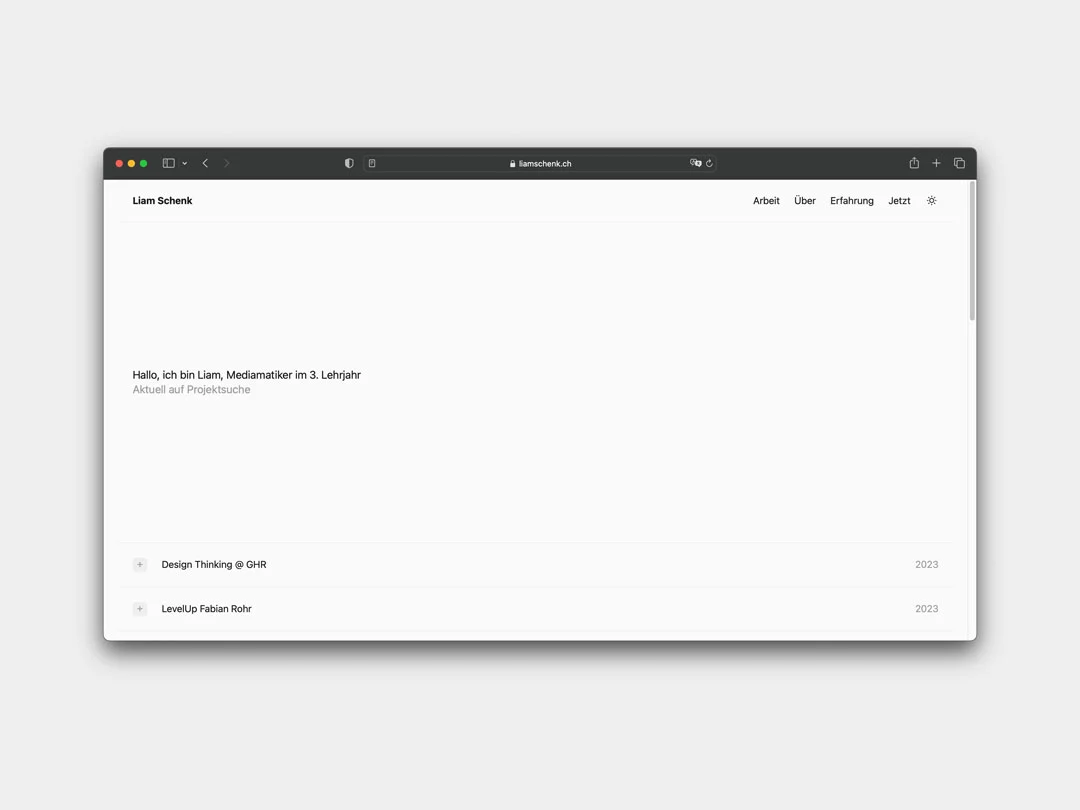
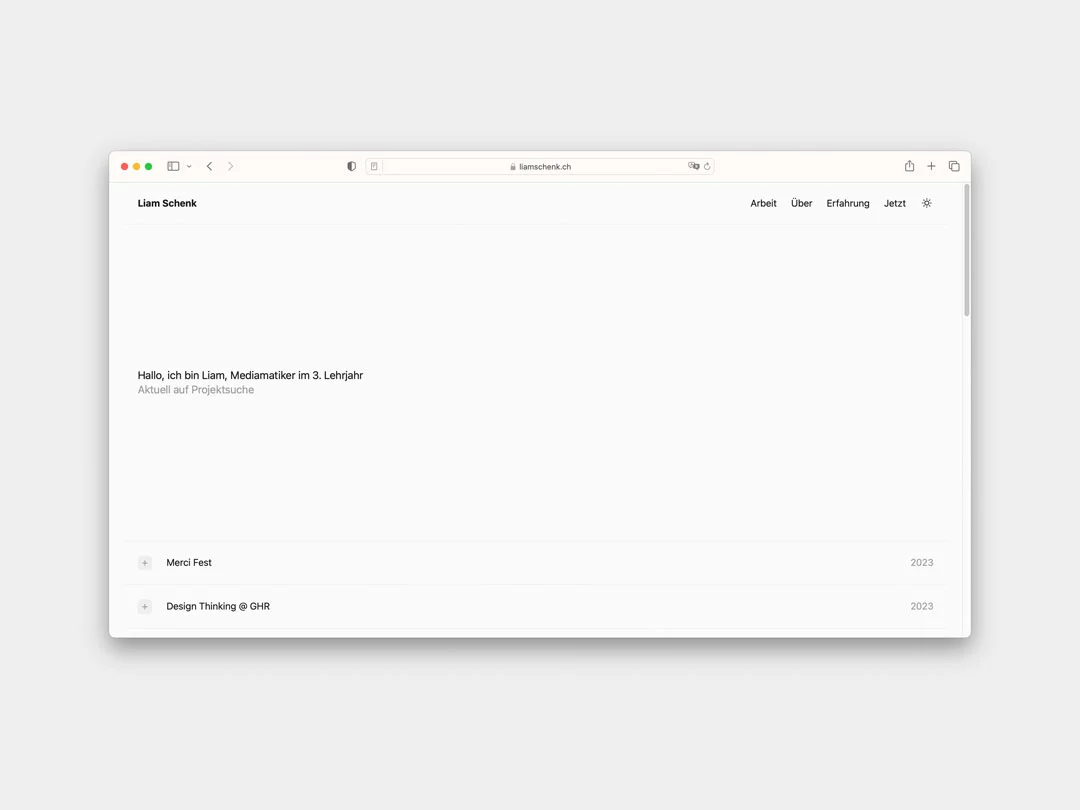
update

Changed region(s): [[0.0611, 0.1543, 0.9167, 0.8333], [0.1528, 0.679, 0.2444, 0.7099]]

diff --git a/index.html b/index.html
@@ -76,9 +76,9 @@
           </div>
           <div class="flex-25">
             <p class="small secondary margin-bottom-small">
-              Für Stefan Binggeli haben wir Fotos des Merci Fests erstellt. Es
-              ging darum, sich bei der Notfallorganisation, EVAK Spezialisten
-              und Betriebssanitätern zu bedanken. Ich habe bei diesem Auftrag
+              Für Stefan Binggeli haben wir Fotos des Merci Fests erstellt,
+              einem Event für Mitglieder der Notfallorganisation, EVAK
+              Spezialisten und Betriebssanitätern. Ich habe bei diesem Auftrag
               die Leitung übernommen.
             </p>
             <a
